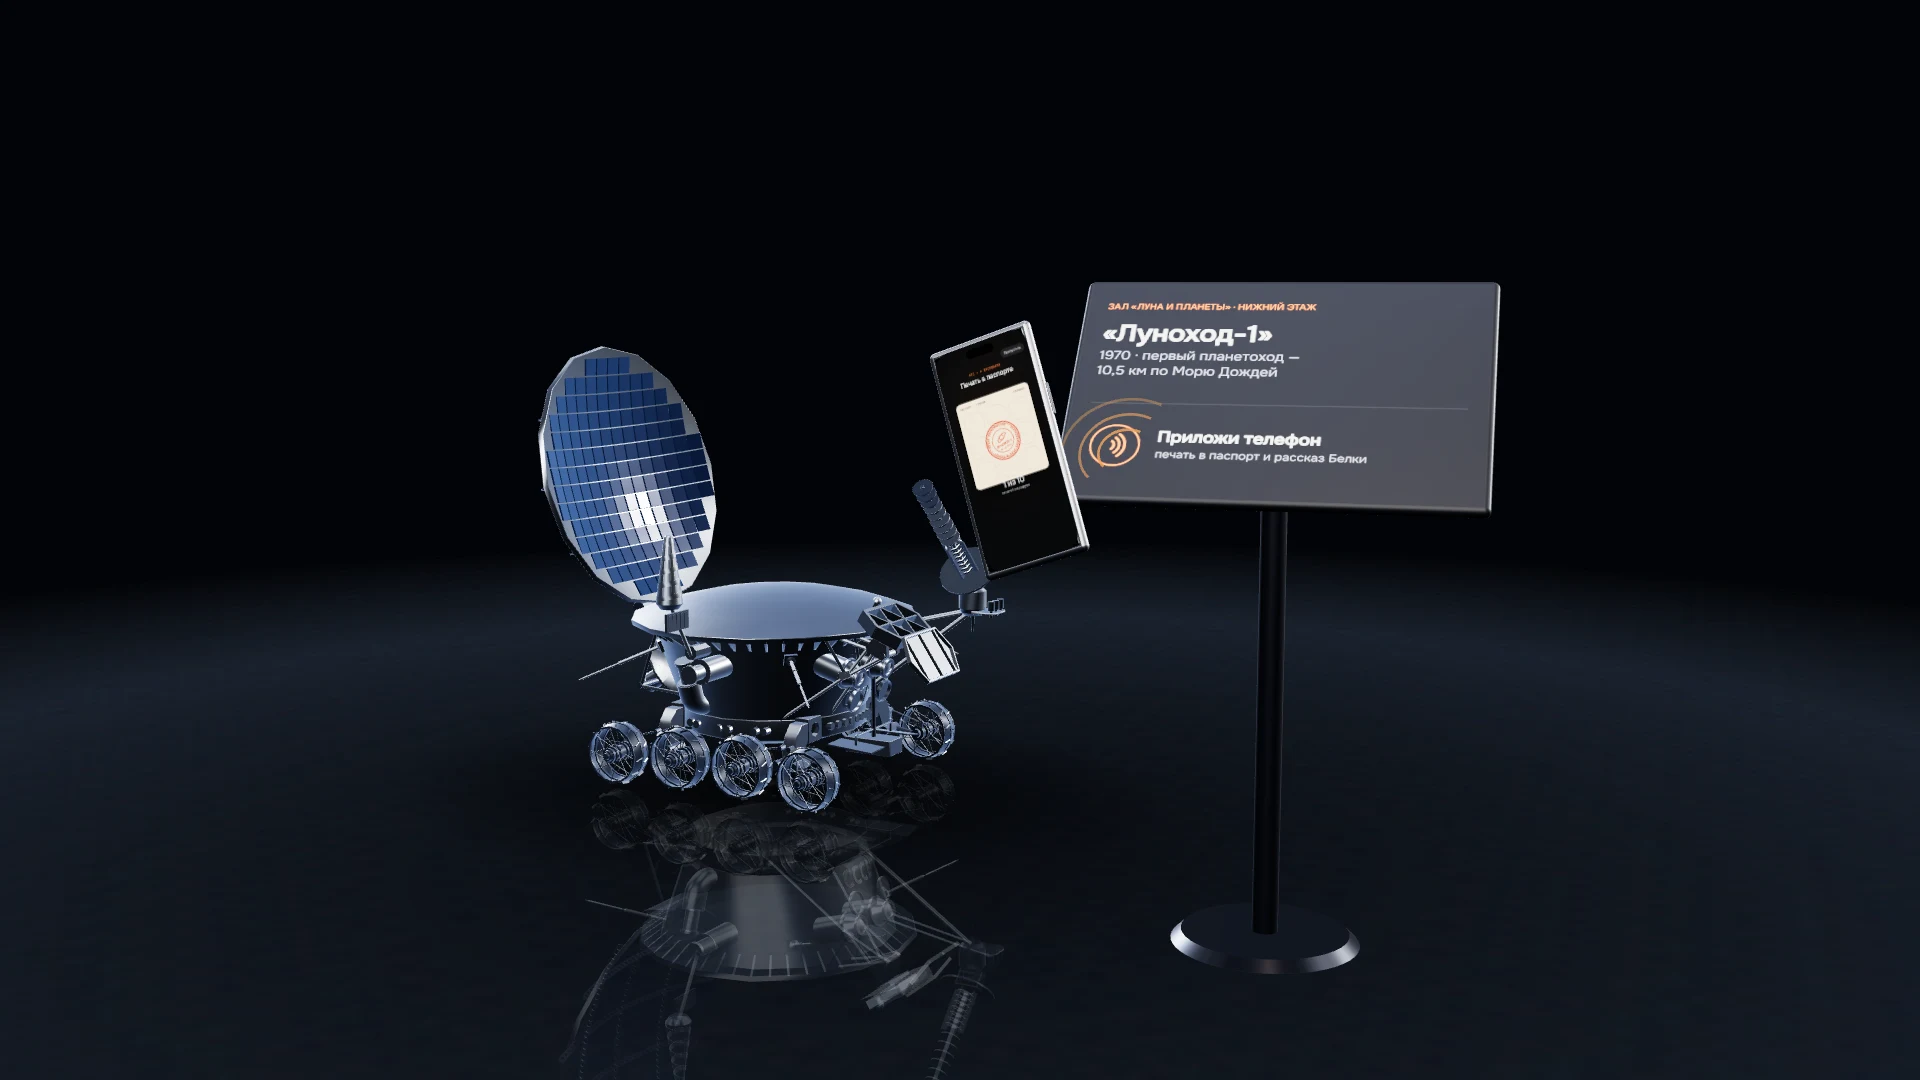
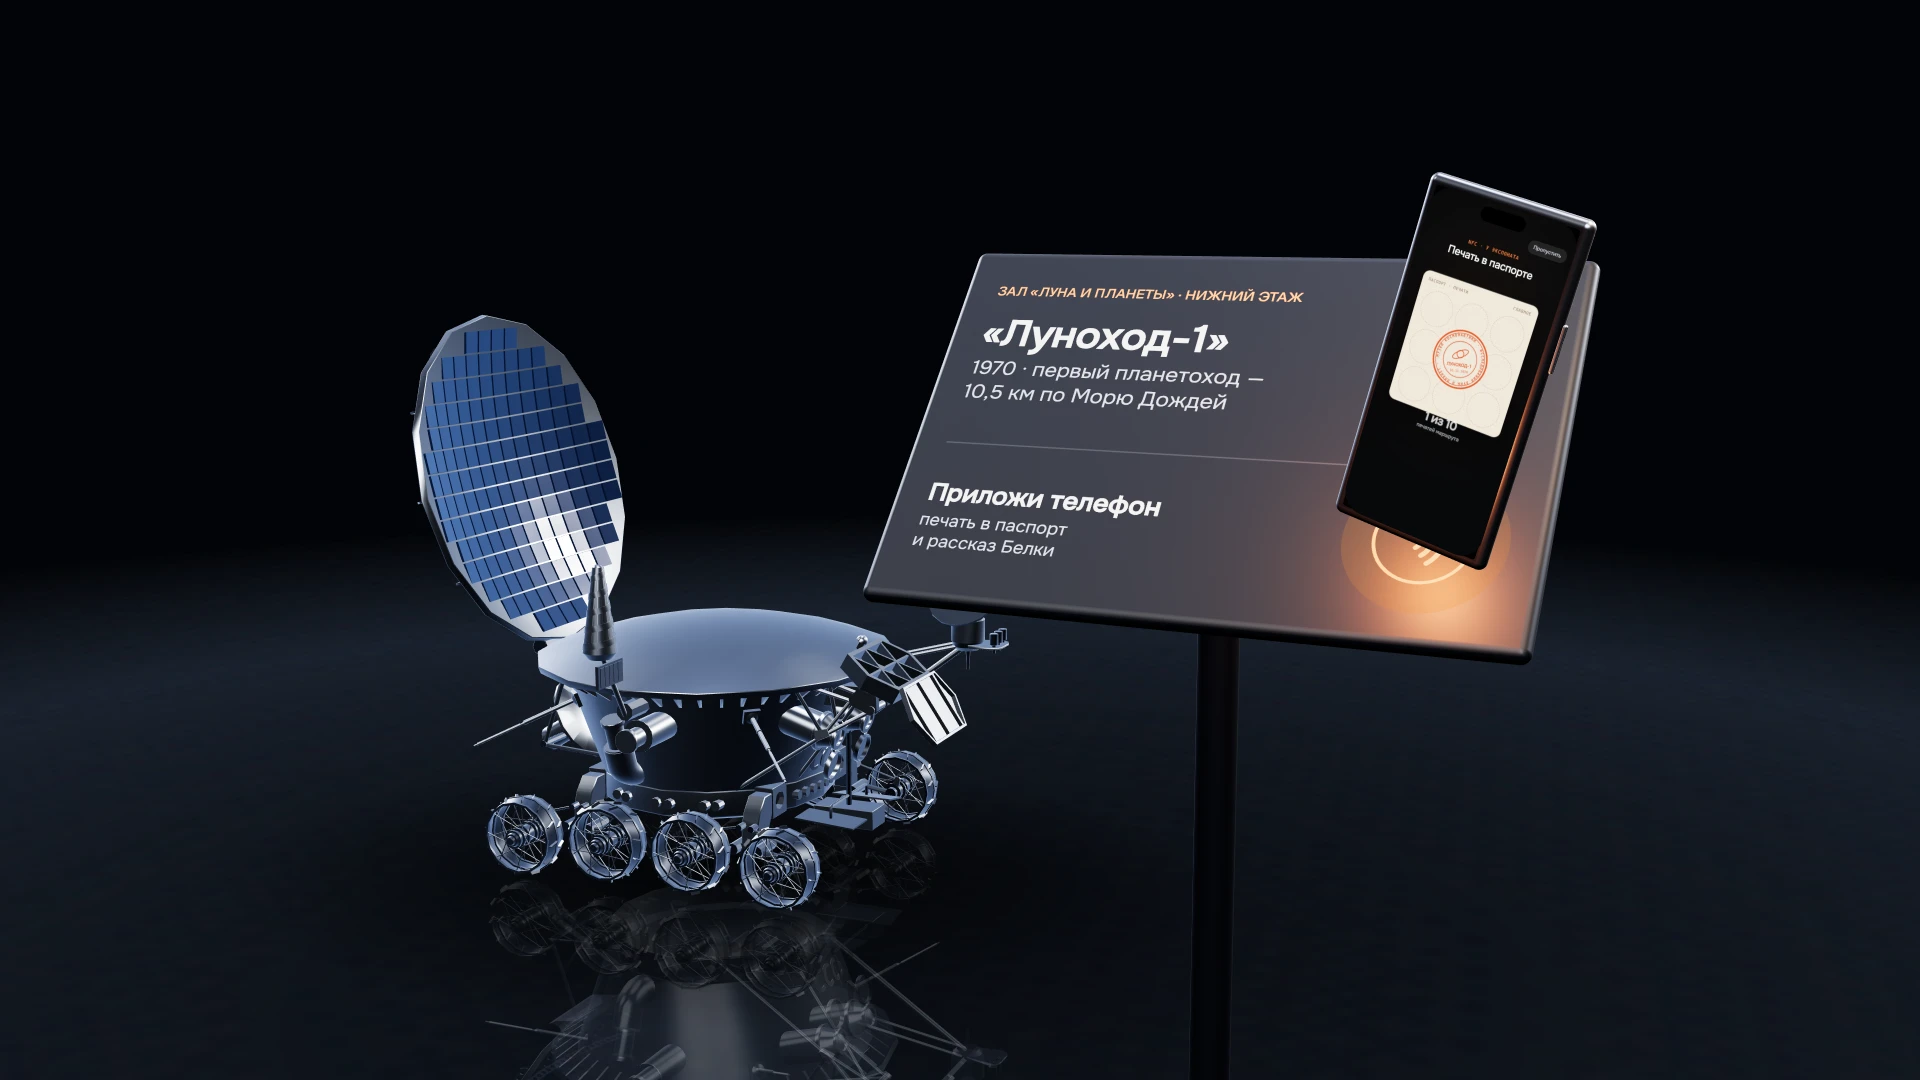
deck: NFC-слайд — крупнее табличка, метка справа, iPhone над меткой, шаги ниже рендера
Claude-Session: https://claude.ai/code/session_01YJBZo4ctwu5nXZDRpFLjgU

diff --git a/kosmo-museum/deck/index.html b/kosmo-museum/deck/index.html
@@ -381,13 +381,13 @@ canvas.stars{position:fixed;inset:0;width:100vw;height:100vh;z-index:0;pointer-e
 
 .ch:has(.nfcw){padding:0!important}.ch:has(.nfcw)::after{display:none}
 .nfcw{position:absolute;inset:0;overflow:hidden}
-.nfcbg{position:absolute;inset:0;width:100%;height:100%;object-fit:cover;object-position:30% 40%}
-.nfcw::after{content:'';position:absolute;inset:0;background:linear-gradient(180deg,rgba(7,8,11,.85) 0%,rgba(7,8,11,0) 30%,rgba(7,8,11,0) 58%,rgba(7,8,11,.92) 82%);pointer-events:none}
+.nfcbg{position:absolute;left:0;right:0;top:0;width:100%;height:86%;object-fit:cover;object-position:50% 12%;-webkit-mask:linear-gradient(180deg,#000 75%,transparent);mask:linear-gradient(180deg,#000 75%,transparent)}
+.nfcw::after{content:'';position:absolute;inset:0;background:linear-gradient(180deg,rgba(7,8,11,.85) 0%,rgba(7,8,11,0) 30%,rgba(7,8,11,0) 70%,rgba(7,8,11,.0) 100%);pointer-events:none}
 .nfct,.nfcs,.nfcn{position:absolute;z-index:2;left:var(--M);right:var(--M)}
 .nfct{top:var(--M)}.nfct h2{margin:calc(1.2*var(--u)) 0 0!important}
-.nfcs{bottom:calc(var(--M) + 5*var(--u));align-items:start;display:grid;grid-template-columns:repeat(4,1fr);gap:calc(1.6*var(--u))}
+.nfcs{bottom:var(--M);align-items:start;display:grid;grid-template-columns:repeat(4,1fr);gap:calc(1.6*var(--u))}
 .nfcs>div{border-top:1px solid rgba(255,255,255,.22);padding-top:calc(1*var(--u));display:grid;gap:4px}.nfcs i{font:500 12px var(--m);font-style:normal;color:var(--ac);letter-spacing:.12em}.nfcs b{font:400 calc(1.7*var(--u)) var(--f)}.nfcs span{font-size:calc(1.05*var(--u));color:#B8B5AF}
-.nfcn{bottom:var(--M);margin:0;font-size:calc(.95*var(--u));color:rgba(255,255,255,.45)}
+.nfcn{display:none;bottom:var(--M);margin:0;font-size:calc(.95*var(--u));color:rgba(255,255,255,.45)}
 
 /* v13: слайды с приложением — заголовок и описание по верхней линии, тег слева внизу, подпись раздела справа внизу (кроме обложки) */
 .ch.ch:not([data-wide]):not(:first-of-type){grid-template-rows:auto 1fr!important}
